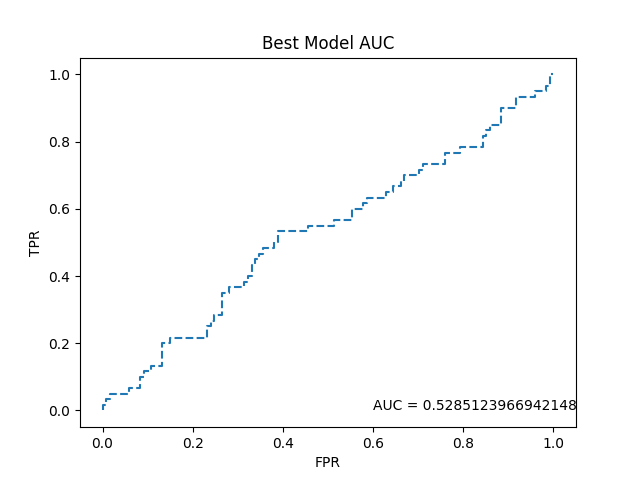
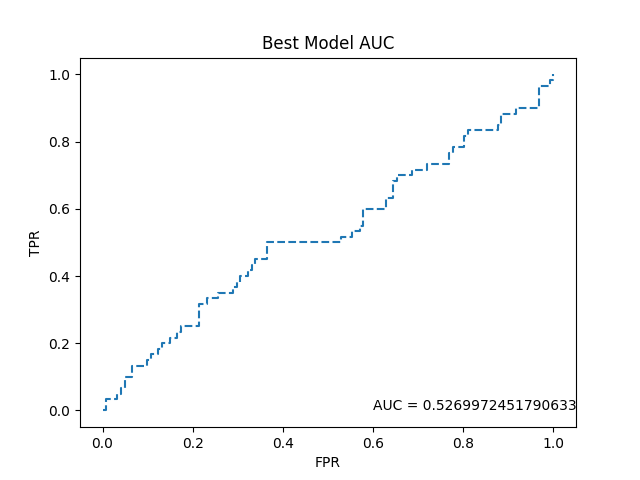
model with more training

diff --git a/val_3dcnn.py b/val_3dcnn.py
@@ -76,7 +76,7 @@ def main():
     model.summary()
 
     # Load model weights.
-    model.load_weights("/home/lodhar/af-recurrence/04-0.92.h5")
+    model.load_weights("/home/lodhar/af-recurrence/47-0.62.h5")
 
     # Predict and evaluate.
     y_pred = model.predict(validation_dataset).ravel()
